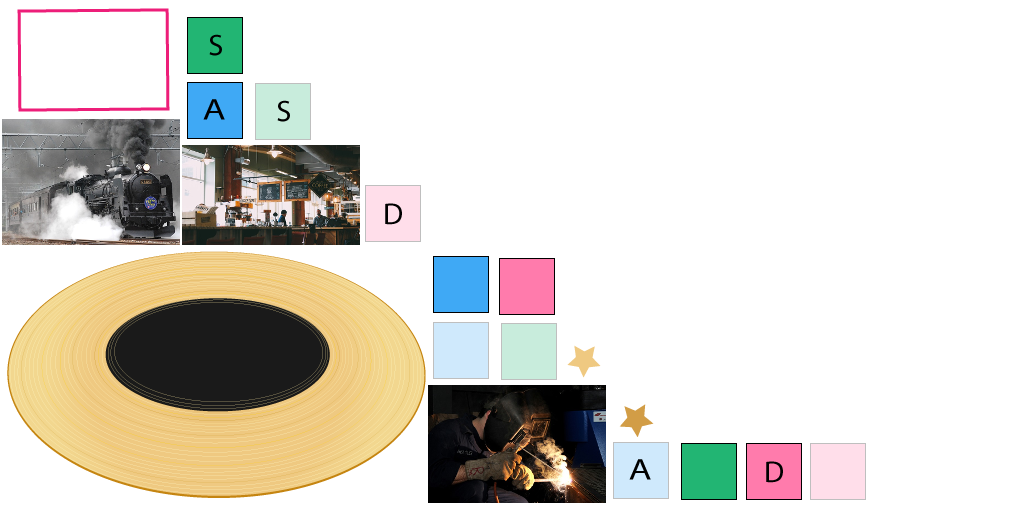
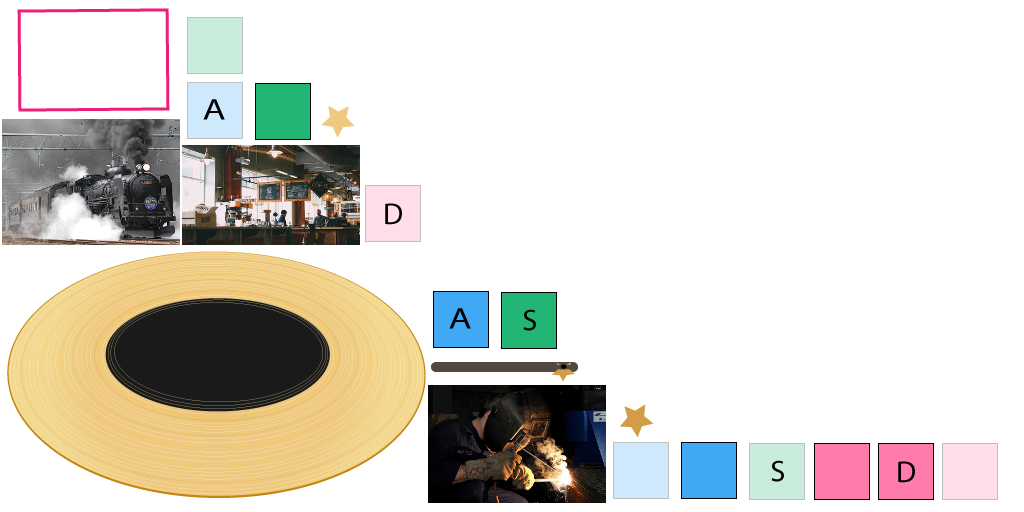
stylus now gives time left on track

Changed region(s): [[0.5938, 0.8438, 1.0, 1.0], [0.4062, 0.5, 0.5938, 0.75], [0.1562, 0.0312, 0.3438, 0.2812]]

diff --git a/core/src/uk/co/adeveloperabroad/SoundsOfEarth.java b/core/src/uk/co/adeveloperabroad/SoundsOfEarth.java
@@ -19,13 +19,13 @@ import com.badlogic.gdx.utils.Json;
 import com.badlogic.gdx.utils.viewport.FitViewport;
 import com.badlogic.gdx.utils.viewport.Viewport;
 import com.uwsoft.editor.renderer.SceneLoader;
-import com.uwsoft.editor.renderer.components.MainItemComponent;
 import com.uwsoft.editor.renderer.components.label.LabelComponent;
 import com.uwsoft.editor.renderer.utils.ComponentRetriever;
 import com.uwsoft.editor.renderer.utils.ItemWrapper;
 import java.util.Comparator;
 
 import uk.co.adeveloperabroad.components.PictureComponent;
+import uk.co.adeveloperabroad.components.RecordSpeedComponent;
 import uk.co.adeveloperabroad.components.WalkBoxComponent;
 import uk.co.adeveloperabroad.systems.PictureSystem;
 import uk.co.adeveloperabroad.systems.WalkBoxSystem;
@@ -37,9 +37,17 @@ public class SoundsOfEarth extends ApplicationAdapter implements Telegraph {
 
     private LevelManager levelManager;
 
+
+    private BinaryDisplay binaryDisplay = new BinaryDisplay();
+    private LabelComponent scoreLabel;
+    private LabelComponent trackLabel;
+    private int score = 0;
+
     private float recordSpeed;
     private static float RECORD_DRAGSPEED = 0.8f;
     private static float LEG_IMPULSE_SPEED = 0.5f;
+    private Entity stylus;
+
     private Sound mysterySound;
     private Long soundId;
 
@@ -59,9 +67,7 @@ public class SoundsOfEarth extends ApplicationAdapter implements Telegraph {
 
     private PictureSystem pictureSystem = new PictureSystem();
     private WalkBoxSystem walkBoxSystem = new WalkBoxSystem();
-    private boolean hasGuessed = false;
-    private int score = 0;
-
+    private boolean hasTrackFinished = false;
 
     @Override
     public void create() {
@@ -73,17 +79,24 @@ public class SoundsOfEarth extends ApplicationAdapter implements Telegraph {
         ItemWrapper root = new ItemWrapper(sceneLoader.getRoot());
 
         Entity scoreEntitiy = root.getChild("score").getEntity();
+        scoreLabel = ComponentRetriever.get(scoreEntitiy, LabelComponent.class);
+        scoreLabel.setText(binaryDisplay.getScore(score));
 
- 
-        LabelComponent labelComponent = ComponentRetriever.get(scoreEntitiy, LabelComponent.class);
-        labelComponent.setText("hello");
+        Entity trackEntitiy = root.getChild("track").getEntity();
+        trackLabel = ComponentRetriever.get(trackEntitiy, LabelComponent.class);
 
         ComponentRetriever.addMapper(PictureComponent.class);
         ComponentRetriever.addMapper(WalkBoxComponent.class);
+        ComponentRetriever.addMapper(RecordSpeedComponent.class);
 
         sceneLoader.addComponentsByTagName("input", WalkBoxComponent.class);
         sceneLoader.getEngine().addSystem(walkBoxSystem);
         sceneLoader.getEngine().addSystem(pictureSystem);
+
+        StylusController stylusController = new StylusController();
+
+        stylus = root.getChild("stylus").getEntity().add(new RecordSpeedComponent());
+        root.getChild("stylus").addScript(stylusController);
 
 
         addMessageListeners();
@@ -107,9 +120,11 @@ public class SoundsOfEarth extends ApplicationAdapter implements Telegraph {
 
 
 
-    protected void playLevel(int levelNumber) {
+    protected void playLevel(int trackNumber) {
+
         sceneLoader.addComponentsByTagName("picture", PictureComponent.class);
-        levelManager.loadLevel(levelNumber);
+        levelManager.loadLevel(trackNumber);
+        trackLabel.setText(binaryDisplay.getTrack(trackNumber, levelManager.finalLevelNumber));
         loadMysterySound();
         startPositions();
     }
@@ -128,6 +143,8 @@ public class SoundsOfEarth extends ApplicationAdapter implements Telegraph {
         } else {
             playSound(recordSpeed);
         }
+
+        stylus.getComponent(RecordSpeedComponent.class).recordSpeed = recordSpeed;
 
         animationTimeLabel += Gdx.graphics.getDeltaTime() * recordSpeed;
         animationTimeAlien = MathUtils.clamp(
@@ -148,14 +165,14 @@ public class SoundsOfEarth extends ApplicationAdapter implements Telegraph {
     }
 
     private void playSound(float speed) {
-        Gdx.app.log("pitch", Float.toString(speed * 0.2f));
+      //  Gdx.app.log("pitch", Float.toString(speed * 0.2f));
         mysterySound.setPitch(soundId, speed * 0.2f);
         mysterySound.resume(soundId);
     }
 
     private void moveLeg(int leg) {
 
-        if (!hasGuessed) {
+        if (!hasTrackFinished) {
             if (leg == 1) {
                 nextLeg = 2;
             }
@@ -177,8 +194,8 @@ public class SoundsOfEarth extends ApplicationAdapter implements Telegraph {
         animationTimeAlien = 0;
         animationTimeLabel = 0;
         recordSpeed = 0;
-        sceneLoader.getEngine().getSystem(WalkBoxSystem.class).nextLeg = 1;
-        hasGuessed = false;
+        MessageManager.getInstance().dispatchMessage(0.0f, this, MessageType.startingPositions);
+        hasTrackFinished = false;
     }
 
     protected void loadMysterySound() {
@@ -190,32 +207,38 @@ public class SoundsOfEarth extends ApplicationAdapter implements Telegraph {
     @Override
     public boolean handleMessage(Telegram msg) {
 
-        if (msg.message == MessageType.win) {
-            score ++;
-           guessed();
+        switch (msg.message) {
+
+            case MessageType.win:
+                score++;
+                scoreLabel.setText(binaryDisplay.getScore(score));
+                guessed();
+                break;
+            case MessageType.lose:
+                guessed();
+                break;
+            case MessageType.leg1:
+                moveLeg(1);
+                break;
+            case MessageType.leg2:
+                moveLeg(2);
+                break;
+            case MessageType.leg3:
+                moveLeg(3);
+                break;
+            case MessageType.timeout:
+                hasTrackFinished = true;
+                break;
+
         }
 
-        if (msg.message == MessageType.lose) {
-            guessed();
-        }
 
-
-        if (msg.message == MessageType.leg1) {
-            moveLeg(1);
-        }
-
-        if (msg.message == MessageType.leg2) {
-            moveLeg(2);
-        }
-        if (msg.message == MessageType.leg3) {
-            moveLeg(3);
-        }
         return true;
     }
 
     public void guessed() {
 
-        hasGuessed = true;
+        hasTrackFinished = true;
 
         ImmutableArray<Entity> pictureEntities =
                 sceneLoader.getEngine().getEntitiesFor(Family.all(PictureComponent.class).get());
@@ -237,6 +260,7 @@ public class SoundsOfEarth extends ApplicationAdapter implements Telegraph {
         MessageManager.getInstance().addListener(this, MessageType.leg3);
         MessageManager.getInstance().addListener(this, MessageType.win);
         MessageManager.getInstance().addListener(this, MessageType.lose);
+        MessageManager.getInstance().addListener(this, MessageType.timeout);
     }
 
 

diff --git a/core/src/uk/co/adeveloperabroad/StylusController.java b/core/src/uk/co/adeveloperabroad/StylusController.java
@@ -1,0 +1,68 @@
+package uk.co.adeveloperabroad;
+
+import com.badlogic.ashley.core.Entity;
+import com.badlogic.gdx.ai.msg.MessageManager;
+import com.badlogic.gdx.ai.msg.Telegram;
+import com.badlogic.gdx.ai.msg.Telegraph;
+import com.badlogic.gdx.graphics.Color;
+import com.badlogic.gdx.math.MathUtils;
+import com.uwsoft.editor.renderer.components.TintComponent;
+import com.uwsoft.editor.renderer.components.TransformComponent;
+import com.uwsoft.editor.renderer.scripts.IScript;
+
+import uk.co.adeveloperabroad.components.RecordSpeedComponent;
+
+/**
+ * Created by snow on 16/01/16.
+ */
+public class StylusController implements IScript, Telegraph {
+
+    private Entity stylus;
+    private TransformComponent transformComponent;
+    private RecordSpeedComponent recordSpeedComponent;
+    private TintComponent tintComponent;
+    private float startingPosition;
+    private float endingPosition = -2.0f;
+
+    @Override
+    public void init(Entity entity) {
+        stylus = entity;
+        transformComponent = entity.getComponent(TransformComponent.class);
+        recordSpeedComponent = entity.getComponent(RecordSpeedComponent.class);
+        tintComponent = entity.getComponent(TintComponent.class);
+        startingPosition = transformComponent.x;
+        MessageManager.getInstance().addListener(this, MessageType.startingPositions);
+    }
+
+    @Override
+    public void act(float delta) {
+
+        transformComponent.x = MathUtils.clamp(transformComponent.x
+                + (delta * recordSpeedComponent.recordSpeed * 0.25f),startingPosition, endingPosition);
+
+
+        if (transformComponent.x == endingPosition) {
+            MessageManager.getInstance().dispatchMessage(0.0f, this, MessageType.timeout);
+        }
+
+        if (transformComponent.x > (endingPosition - 8) && transformComponent.x <= endingPosition) {
+            float colourChange = 0.2f * MathUtils.sin(transformComponent.x * 4.0f);
+            tintComponent.color = tintComponent.color.sub(0f, colourChange, colourChange, 0f);
+        }
+    }
+
+    @Override
+    public void dispose() {
+
+    }
+
+    @Override
+    public boolean handleMessage(Telegram msg) {
+
+        if (msg.message == MessageType.startingPositions) {
+            transformComponent.x = startingPosition;
+            tintComponent.color = tintComponent.color.set(Color.WHITE);
+        }
+        return true;
+    }
+}

diff --git a/core/src/uk/co/adeveloperabroad/systems/WalkBoxSystem.java b/core/src/uk/co/adeveloperabroad/systems/WalkBoxSystem.java
@@ -7,6 +7,8 @@ import com.badlogic.gdx.Application;
 import com.badlogic.gdx.Gdx;
 import com.badlogic.gdx.Input;
 import com.badlogic.gdx.ai.msg.MessageManager;
+import com.badlogic.gdx.ai.msg.Telegram;
+import com.badlogic.gdx.ai.msg.Telegraph;
 import com.badlogic.gdx.math.Vector2;
 import com.uwsoft.editor.renderer.components.DimensionsComponent;
 import com.uwsoft.editor.renderer.components.MainItemComponent;
@@ -18,12 +20,13 @@ import com.uwsoft.editor.renderer.utils.TransformMathUtils;
 import uk.co.adeveloperabroad.MessageType;
 import uk.co.adeveloperabroad.components.WalkBoxComponent;
 
-public class WalkBoxSystem extends IteratingSystem {
+public class WalkBoxSystem extends IteratingSystem implements Telegraph {
 
     public int nextLeg = 1;
 
     public WalkBoxSystem() {
         super(Family.all(WalkBoxComponent.class).get());
+        MessageManager.getInstance().addListener(this, MessageType.startingPositions);
     }
 
     @Override
@@ -174,5 +177,14 @@ public class WalkBoxSystem extends IteratingSystem {
             return true;
         }
         return false;
+    }
+
+    @Override
+    public boolean handleMessage(Telegram msg) {
+
+        if (msg.message == MessageType.startingPositions) {
+            nextLeg = 1;
+        }
+        return true;
     }
 }

diff --git a/core/src/uk/co/adeveloperabroad/BinaryDisplay.java b/core/src/uk/co/adeveloperabroad/BinaryDisplay.java
@@ -1,0 +1,18 @@
+package uk.co.adeveloperabroad;
+
+/**
+ * Created by snow on 16/01/16.
+ */
+public class BinaryDisplay {
+
+    public String getTrack(int track, int lastTrack) {
+        return Integer.toBinaryString(track).replace("0","_")
+                + " / " +
+                Integer.toBinaryString(lastTrack).replace("0","_");
+    }
+
+   public String getScore(int score) {
+       return Integer.toBinaryString(score).replace("0","_");
+   }
+
+}

diff --git a/core/src/uk/co/adeveloperabroad/MessageType.java b/core/src/uk/co/adeveloperabroad/MessageType.java
@@ -9,4 +9,6 @@ public class MessageType {
     public static final int leg3 = 3;
     public static final int win = 4;
     public static final int lose = 5;
+    public static final int timeout = 6;
+    public static final int startingPositions = 7;
 }

diff --git a/core/src/uk/co/adeveloperabroad/components/RecordSpeedComponent.java b/core/src/uk/co/adeveloperabroad/components/RecordSpeedComponent.java
@@ -1,0 +1,11 @@
+package uk.co.adeveloperabroad.components;
+
+import com.badlogic.ashley.core.Component;
+
+/**
+ * Created by snow on 16/01/16.
+ */
+public class RecordSpeedComponent implements Component {
+
+    public float recordSpeed;
+}
